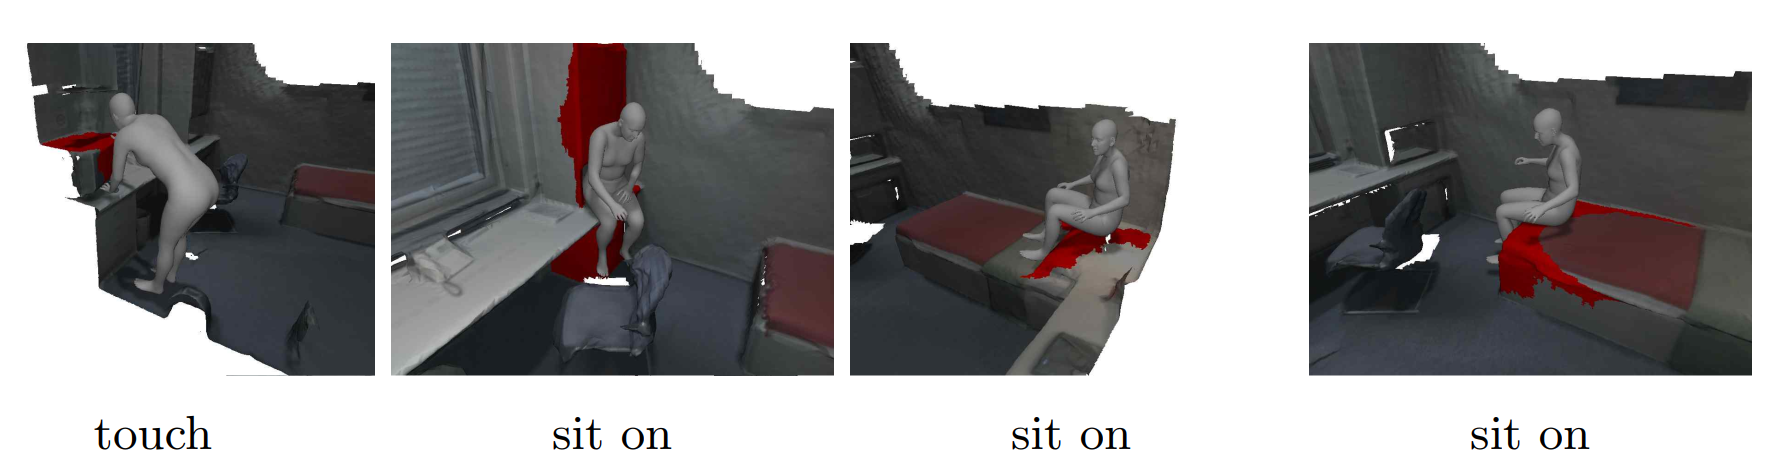
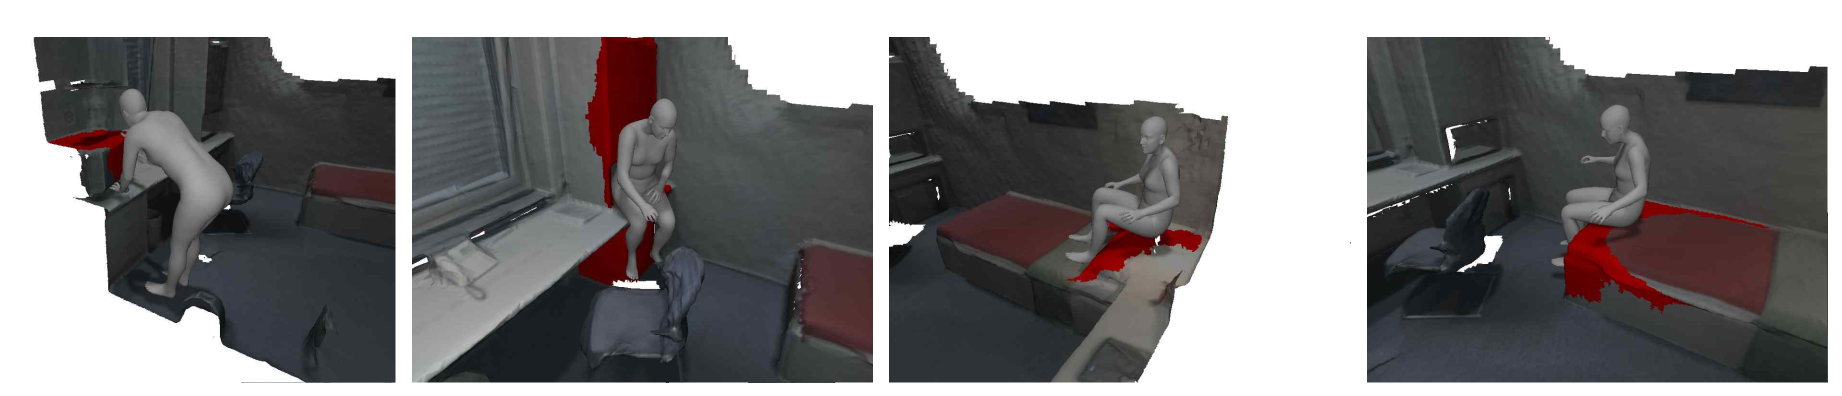
adjust results layout

diff --git a/COINS/index.html b/COINS/index.html
@@ -180,16 +180,19 @@ human and objects are embedded via positional encoding.
                    </p>
                    <p><img class="img-fluid" alt="pipeline" src="images/comparison.svg"></p>
                   
+                   <br>
                    <p class="lead text-justify">
                      Novel interactions of unseen action-object pairs created by COINS.
                    </p>
                    <p><img class="img-fluid" alt="pipeline" src="images/retarget.png"></p>
 
+                   <br>
                    <p class="lead text-justify">
                      We explicitly control COINS to generate bodies of varing shape sizes, including unseen extremely thin and heavy bodies.
                    </p>
                    <p><img class="img-fluid" alt="pipeline" src="images/shape.png"></p>
 
+                   <br>
                    <p class="lead text-justify">
                      Synthesized interactions with noisily segmented objects (visualized as red).
                    </p>
